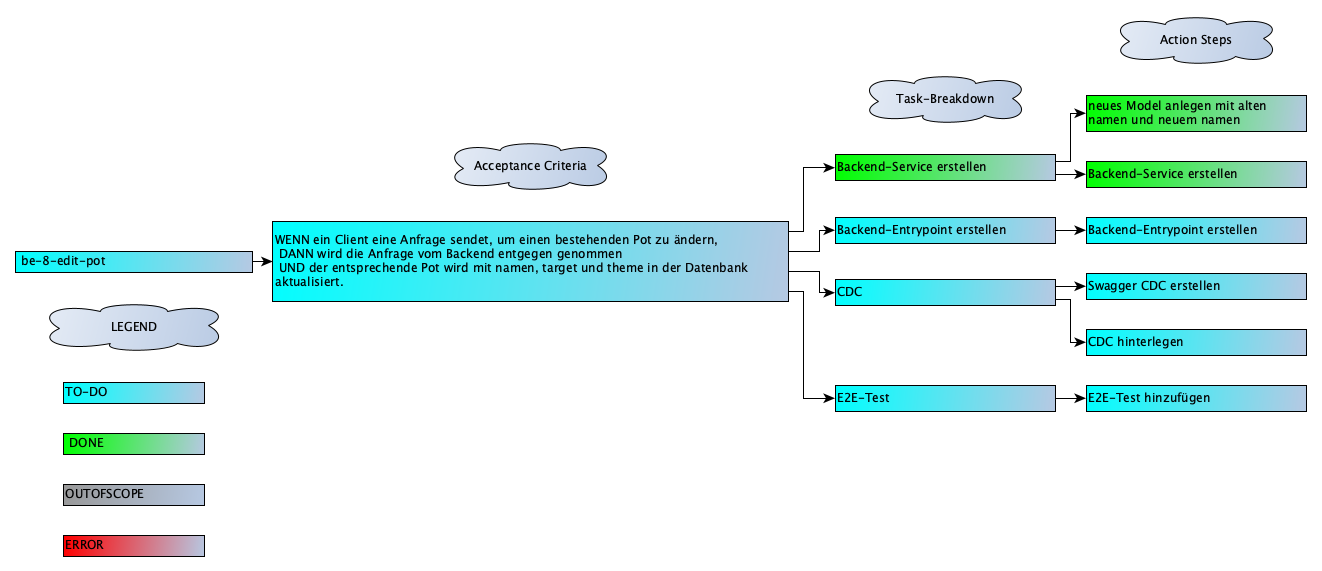
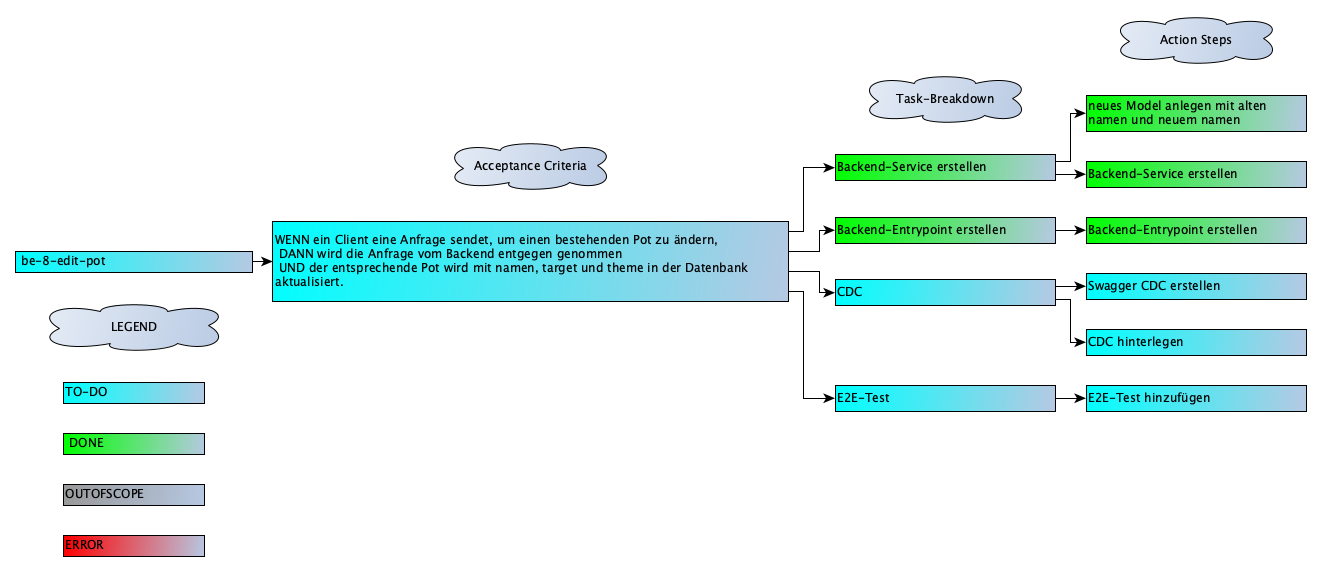
be-8 add entrypoint

Changed region(s): [[0.6203, 0.3573, 0.9924, 0.4466]]

diff --git a/backend/src/apis/pots/pots.controller.spec.ts b/backend/src/apis/pots/pots.controller.spec.ts
@@ -1,11 +1,13 @@
 import { Test, TestingModule } from '@nestjs/testing';
 import { PotsController } from './pots.controller';
 import { PotsService } from './pots.service';
+import { APIEditedPotDTO } from '../../model/apis/APIEditedPotDTO';
 
 jest.mock('./pots.service', () => ({
   PotsService: jest.fn().mockImplementation(() => ({
     findAll: jest.fn(),
     addNewPot: jest.fn(),
+    editPot: jest.fn(),
   })),
 }));
 
@@ -24,6 +26,11 @@ const mockedPots = [
   },
 ];
 
+const mockedEditedPot: APIEditedPotDTO = {
+  ...mockedPots[0],
+  oldName: mockedPots[0].name,
+};
+
 describe('PotsController', () => {
   let controller: PotsController;
   let potsService: PotsService;
@@ -37,6 +44,7 @@ describe('PotsController', () => {
     potsService = module.get<PotsService>(PotsService);
     (potsService.findAll as jest.Mock).mockResolvedValue(mockedPots);
     (potsService.addNewPot as jest.Mock).mockResolvedValue(undefined);
+    (potsService.editPot as jest.Mock).mockResolvedValue(undefined);
 
     controller = module.get<PotsController>(PotsController);
   });
@@ -74,6 +82,22 @@ describe('PotsController', () => {
 
     await expect(() => controller.addNewPot(mockedPots[0])).rejects.toThrow(
       'Error adding new pot: Service failure',
+    );
+  });
+
+  it('edits an existing pot', async () => {
+    await controller.editPot(mockedEditedPot);
+
+    expect(potsService.editPot).toHaveBeenCalledWith(mockedEditedPot);
+  });
+
+  it('throws if editing pot call fails', async () => {
+    (potsService.editPot as jest.Mock).mockImplementation(() => {
+      throw new Error('Service failure');
+    });
+
+    await expect(() => controller.editPot(mockedEditedPot)).rejects.toThrow(
+      'Error while editing pot: Service failure',
     );
   });
 });

diff --git a/backend/src/apis/pots/pots.controller.ts b/backend/src/apis/pots/pots.controller.ts
@@ -10,6 +10,7 @@ import {
 import { PotsService } from './pots.service';
 import { APIPotDTO } from '../../model/apis/APIPotDTO';
 import { ApiOperation, ApiResponse } from '@nestjs/swagger';
+import { APIEditedPotDTO } from '../../model/apis/APIEditedPotDTO';
 
 @Controller('pots')
 export class PotsController {
@@ -70,9 +71,9 @@ export class PotsController {
     status: HttpStatus.INTERNAL_SERVER_ERROR,
     description: 'Server error occurred while editing pot.',
   })
-  async editPot(@Body() editedPot: APIPotDTO): Promise<void> {
+  async editPot(@Body() editedPot: APIEditedPotDTO): Promise<void> {
     try {
-      // await this.potsService.editPot(editedPot);
+      await this.potsService.editPot(editedPot);
     } catch (error) {
       throw new InternalServerErrorException(
         `Error while editing pot: ${error.message}`,
